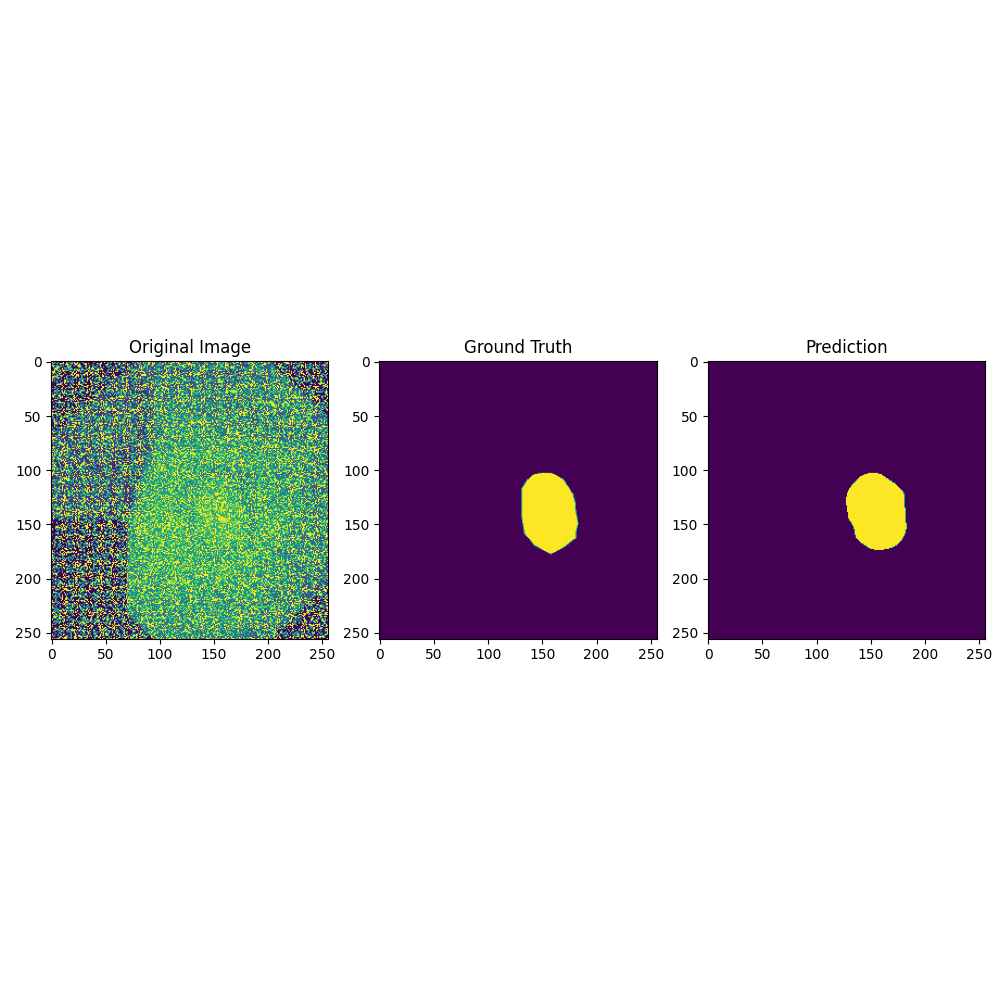
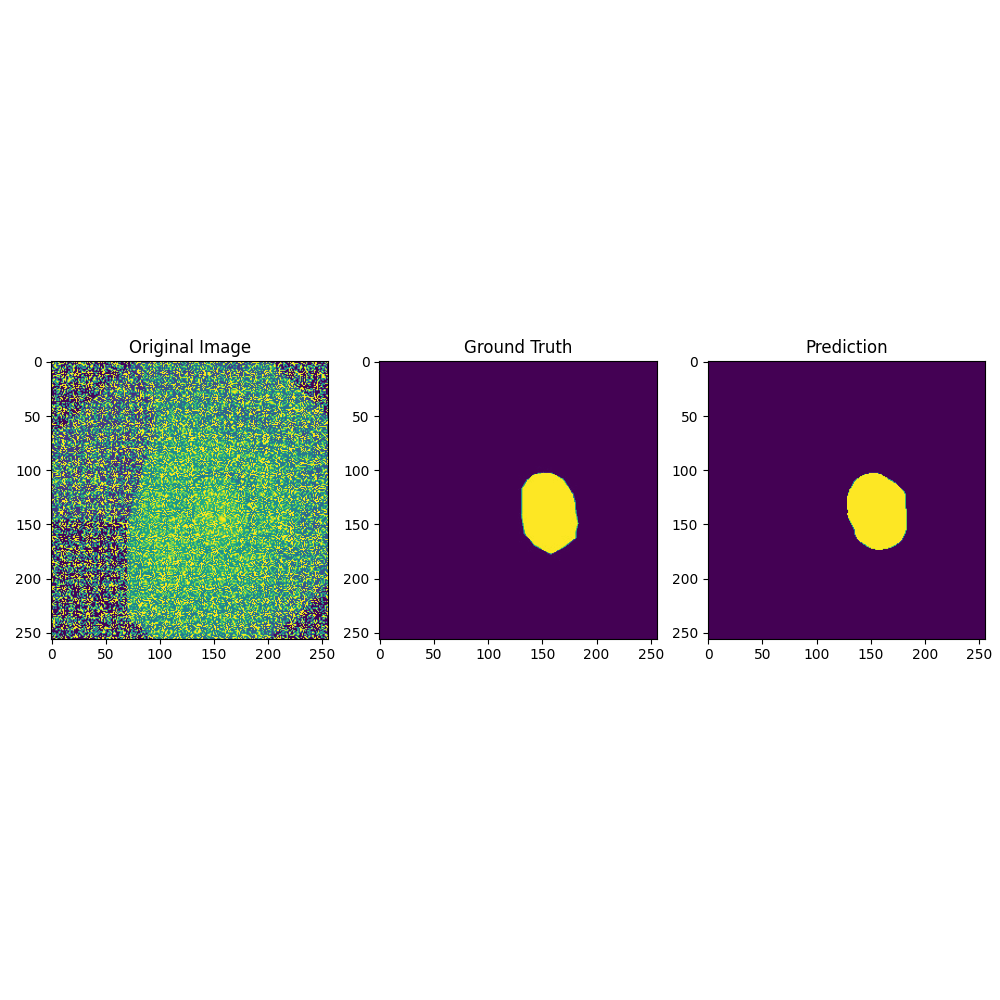
tried another noise value

Changed region(s): [[0.031, 0.341, 0.341, 0.651]]

diff --git a/practice/testing_model.py b/practice/testing_model.py
@@ -25,11 +25,6 @@ from pytorch_datagen import *
 from resunetPlusPlus_pytorch_copy import build_resunetplusplus
 
 
-def mask_to_3d(mask):
-    mask = np.squeeze(mask)
-    mask = [mask, mask, mask]
-    mask = np.transpose(mask, (1, 2, 0))
-    return mask
 
 def displayTensor(input_img: torch.tensor, file_name) -> None:
     """
@@ -58,6 +53,19 @@ def display_all(img, truth,  pred, file_name):
     ax[2].set_title("Prediction")
     figure.tight_layout()
     figure.savefig(file_name)
+
+def overlayDisplay(input_img: torch.tensor, mask1: torch.tensor, mask2: torch.tensor) -> None:
+    color1 = np.array([0,0,1]).astype(np.float32)
+    color2 = np.array([1,0,0]).astype(np.float32)
+    input_img_cpu = np.squeeze(input_img.clone().detach().cpu().numpy()).astype(np.float32)
+    gray_img = np.stack((input_img_cpu, input_img_cpu, input_img_cpu), axis=2)
+    mask1_cpu = np.squeeze(mask1.clone().detach().cpu().numpy()).astype(np.float32)
+    mask2_cpu = np.squeeze(mask2.clone().detach().cpu().numpy()).astype(np.float32)
+    mask1_cpu = np.where(mask1_cpu[...,None], color1, gray_img)
+    mask2_cpu = np.where(mask2_cpu[...,None], color2, gray_img)
+    out = cv2.addWeighted(mask1_cpu, 0.5, mask2_cpu, 0.5,0)
+    out = cv2.addWeighted(gray_img, 0.2, out, 0.8,0)
+    plt.imsave("all_display.png", out)
 
 if __name__ == "__main__":
     model_path = "ColonoscopyTrained_resUnetPlusPlus.pkl"
@@ -118,8 +126,9 @@ if __name__ == "__main__":
             # displayTensor(predict_mask, "prediction.png")
             # displayTensor(masks, "truth.png")
             display_all(images, masks,  predict_mask, f"result/example{i}.png")
+            overlayDisplay(images, masks, predict_mask)
             i+=1
-            if i == 5:
+            if i == 1:
                 break
 
 

diff --git a/practice/pytorch_datagen.py b/practice/pytorch_datagen.py
@@ -9,15 +9,16 @@ import torch
 from torch.utils.data import Dataset
 
 def parse_image(img_path, image_size):
-    image_rgb = cv2.imread(img_path, 1)
+    image_rgb = (cv2.imread(img_path, 1)/255).astype(np.float32)
     h, w, _ = image_rgb.shape
+    print("**", np.mean(image_rgb))
     if (h == image_size) and (w == image_size):
         pass
     else:
         image_rgb = cv2.resize(image_rgb, (image_size, image_size))
     gray_image = cv2.cvtColor(image_rgb, cv2.COLOR_BGR2GRAY)
-    noisy_image = add_gaussian_noise(gray_image, mean=0, std_dev=3)
-    std_image = noisy_image/255.0
+    noisy_image = add_gaussian_noise(gray_image, mean=0, std_dev=np.var(gray_image)*2)
+    std_image = noisy_image
     return std_image
 
 def parse_mask(mask_path, image_size):
@@ -34,11 +35,12 @@ def parse_mask(mask_path, image_size):
 
 def add_gaussian_noise(image, mean, std_dev):
     # Generate random Gaussian noise
-    noise = np.random.normal(mean, std_dev, image.shape).astype(np.uint8)
+    noise = np.random.normal(mean, std_dev, image.shape)
 
     # Add noise to the image
-    noisy_image = cv2.add(image, noise)
-
+    # noisy_image = cv2.add(image, noise)
+    noisy_image = image+noise
+    noisy_image = np.clip(noisy_image, 0, 1)
     return noisy_image
 
 
